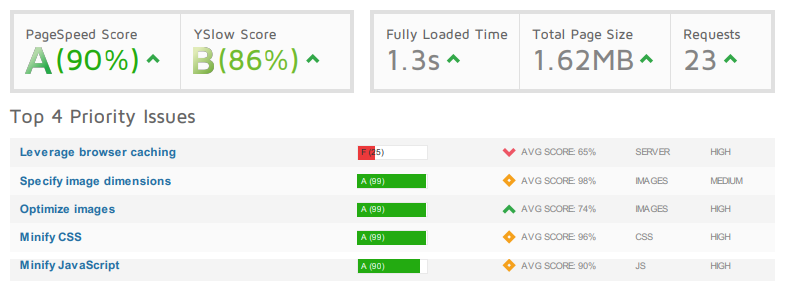
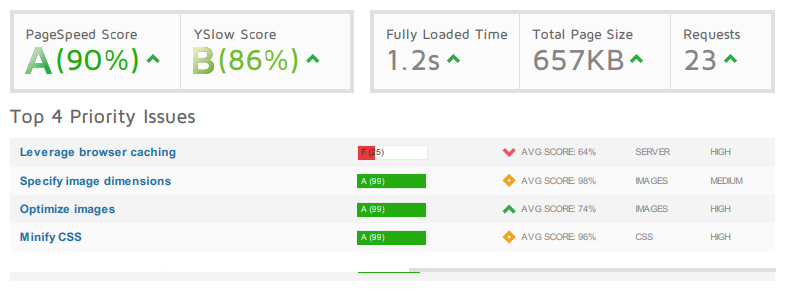
MAJ rapport après optimisation images

diff --git a/index.html b/index.html
@@ -540,8 +540,8 @@
                                 Après la mise en place des recommandations sur la page index, nous constatons :<br>
                                 <span class="fa-check-circle rapport_detail_icon-bonnepratique"></span> Un pagespeed score amélioré <code>64% à 90%</code><br>
                                 <span class="fa-check-circle rapport_detail_icon-bonnepratique"></span> Un YSlow stable <code>85% à 86%</code><br>
-                                <span class="fa-check-circle rapport_detail_icon-bonnepratique"></span> Un temps de chargement diminué <code>1.6s à 1.3s</code><br>
-                                <span class="fa-check-circle rapport_detail_icon-bonnepratique"></span> Un poids de page chargée diminué <code>3.79MB à 1.62MB</code><br>
+                                <span class="fa-check-circle rapport_detail_icon-bonnepratique"></span> Un temps de chargement diminué <code>1.6s à 1.2s</code><br>
+                                <span class="fa-check-circle rapport_detail_icon-bonnepratique"></span> Un poids de page chargée diminué <code>3.79MB à 675KB</code><br>
                                 <span class="fa-check-circle rapport_detail_icon-bonnepratique"></span> Un nombre de requête en baisse <code>26 à 23</code><br>
                             </p>
                         </div>
@@ -627,11 +627,11 @@
                         <div class="main_rapport_detail-paragraphe">
                             <p>
                                 Après la mise en place des recommandations sur la page index, nous constatons :<br>
-                                <span class="fa-check-circle rapport_detail_icon-bonnepratique"></span> Une stabilité des éléments validés <code>12 à 13</code><br>
-                                <span class="fa-check-circle rapport_detail_icon-bonnepratique"></span> Une baisse des éléments invalidés <code>7 à 4</code><br>
+                                <span class="fa-check-circle rapport_detail_icon-bonnepratique"></span> Une stabilité des éléments validés <code>12 à 14</code><br>
+                                <span class="fa-check-circle rapport_detail_icon-bonnepratique"></span> Une baisse des éléments invalidés <code>7 à 3</code><br>
                                 <span class="fa-check-circle rapport_detail_icon-bonnepratique"></span> Une baisse des éléments non-applicables <code>139 à 134</code><br>
                                 <span class="fa-check-circle rapport_detail_icon-bonnepratique"></span> Une augmentation des éléments pré-qualifiés <code>18 à 25</code><br>
-                                <span class="fa-check-circle rapport_detail_icon-bonnepratique"></span> Une augmentation globale des critères<code>63% à 76%</code><br>
+                                <span class="fa-check-circle rapport_detail_icon-bonnepratique"></span> Une augmentation globale des critères<code>63% à 82%</code><br>
                             </p>
                         </div>
                     </div>
@@ -648,11 +648,11 @@
                         <div class="main_rapport_detail-paragraphe">
                             <p>
                                 Après la mise en place des recommandations sur la page contact, nous constatons :<br>
-                                <span class="fa-check-circle rapport_detail_icon-bonnepratique"></span> Une stabilité des éléments validés <code>13 à 15</code><br>
-                                <span class="fa-check-circle rapport_detail_icon-bonnepratique"></span> Une baisse des éléments invalidés <code>8 à 5</code><br>
-                                <span class="fa-check-circle rapport_detail_icon-bonnepratique"></span> Une stabilité des éléments non-applicables <code>128 à 126</code><br>
+                                <span class="fa-check-circle rapport_detail_icon-bonnepratique"></span> Une stabilité des éléments validés <code>13 à 17</code><br>
+                                <span class="fa-check-circle rapport_detail_icon-bonnepratique"></span> Une baisse des éléments invalidés <code>8 à 2</code><br>
+                                <span class="fa-check-circle rapport_detail_icon-bonnepratique"></span> Une stabilité des éléments non-applicables <code>128 à 127</code><br>
                                 <span class="fa-check-circle rapport_detail_icon-bonnepratique"></span> Une augmentation des éléments pré-qualifiés <code>27 à 30</code><br>
-                                <span class="fa-check-circle rapport_detail_icon-bonnepratique"></span> Une augmentation globale des critères<code>61% à 75%</code><br>
+                                <span class="fa-check-circle rapport_detail_icon-bonnepratique"></span> Une augmentation globale des critères<code>61% à 89%</code><br>
                             </p>
                         </div>
                     </div>
